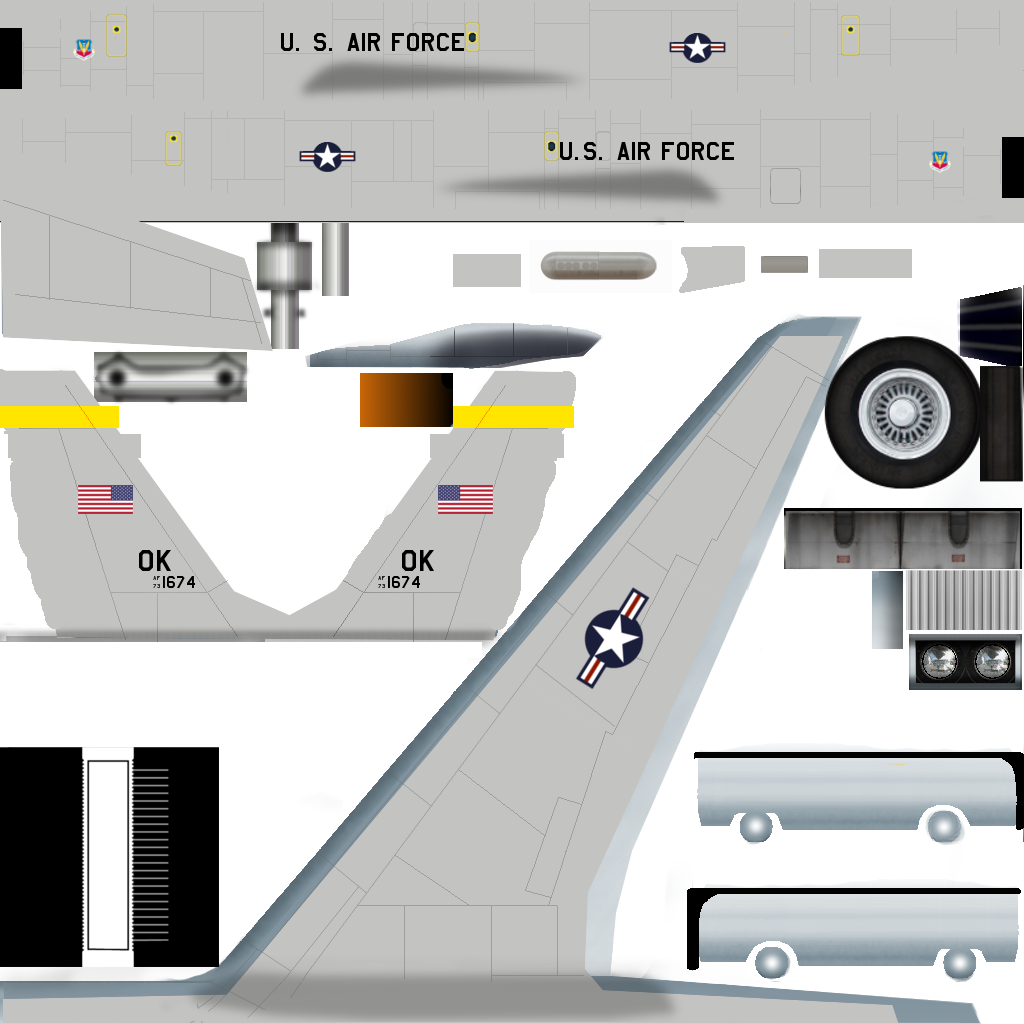
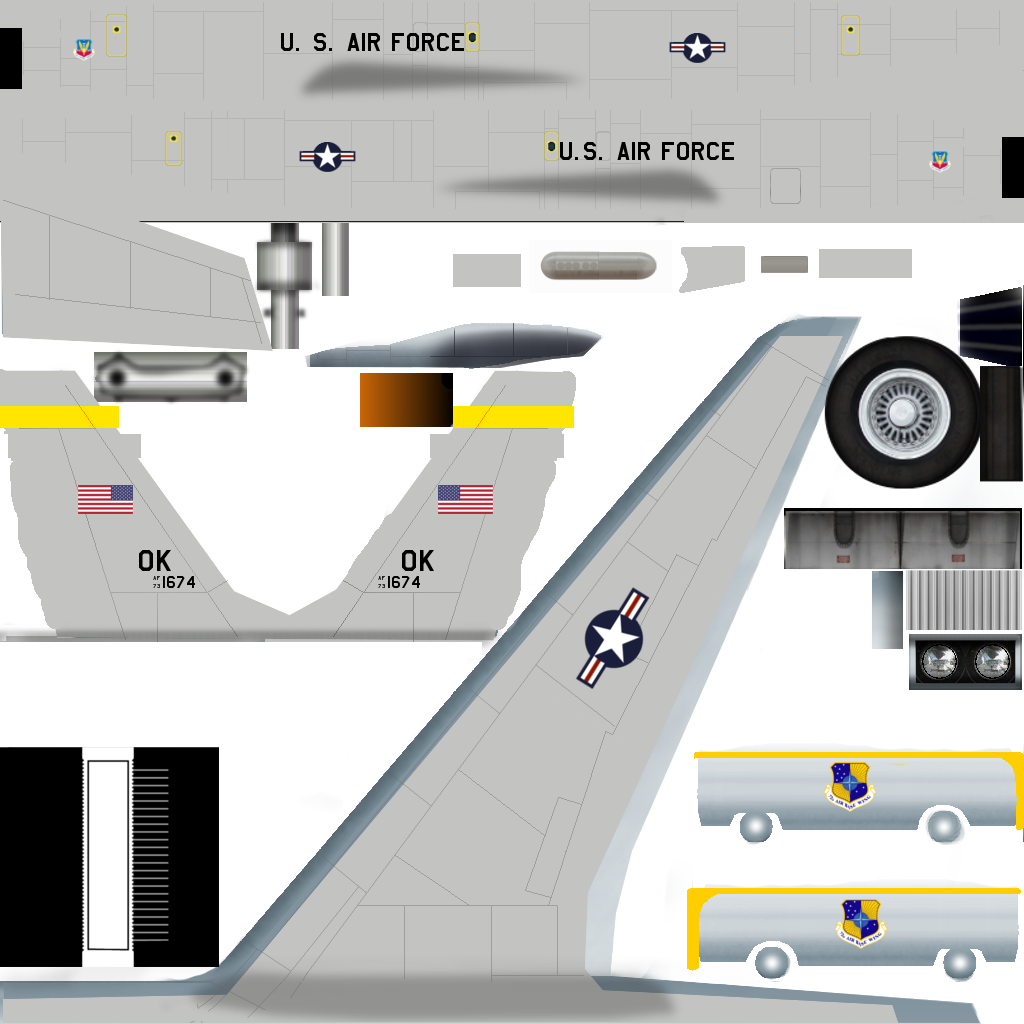
New livs for C and AWACS

Changed region(s): [[0.6562, 0.8438, 1.0, 0.9688], [0.6875, 0.7188, 1.0, 0.8125]]

diff --git a/README.md b/README.md
@@ -29,6 +29,7 @@ AUTHORS:
 * D-ECHO: First RC-137R 3D version.
 * chad3006: Instrument textures for Block 45 update.
 * Jabberwocky (JWOCKY): Technical help and suggestions.
+* Garry Brown (N-SCOT): C-137R livery artwork.
 * Some other people helped in the project with minor contributions.
 
 The original 707 work was done by Innis Cunningham and then Mark Kraus from the Lake of Constance Hangar.
